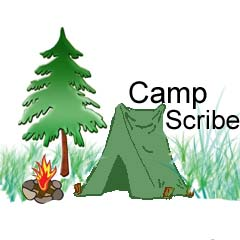
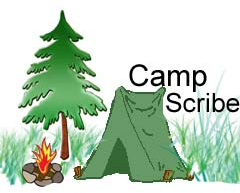
clean up of header style fix for Indian Lore import problem cope with corrupt tracking/clazz roster fix for bug with get current event on reports

diff --git a/campscribe/src/main/webapp/campscribe.css b/campscribe/src/main/webapp/campscribe.css
@@ -58,7 +58,7 @@ h1 {
 .logoTitle {
 	font-size: 24pt;
 	font-weight: bold;
-	padding-top: 30px;
+	padding-top: 85px;
 	padding-left: 20px;
 	float: left;
 }

diff --git a/campscribe/src/main/java/com/campscribe/controller/services/TrackingServiceController.java b/campscribe/src/main/java/com/campscribe/controller/services/TrackingServiceController.java
@@ -66,32 +66,38 @@ public class TrackingServiceController {
 			TrackProgressDTO tpDTO = new TrackProgressDTO();
 			tpDTO.setId(tp.getId());
 			
-			Scout scout = scoutMgr.getScout(tp.getScoutKey().getId());
-			ScoutDTO scoutDTO = new ScoutDTO();
-			scoutDTO.setId(tp.getScoutKey().getId());
-			scoutDTO.setFirstName(scout.getFirstName());
-			scoutDTO.setLastName(scout.getLastName());
-			tpDTO.setScout(scoutDTO);
+			try {
+				Scout scout = scoutMgr.getScout(tp.getScoutKey().getId());
+				ScoutDTO scoutDTO = new ScoutDTO();
+				scoutDTO.setId(tp.getScoutKey().getId());
+				scoutDTO.setFirstName(scout.getFirstName());
+				scoutDTO.setLastName(scout.getLastName());
+				tpDTO.setScout(scoutDTO);
 			
-			List<DateAttendanceDTO> attendanceList = new ArrayList<DateAttendanceDTO>();
-			for (DateAttendance da:tp.getAttendanceList()) {
-				DateAttendanceDTO daDTO = new DateAttendanceDTO();
-				daDTO.setDate(da.getDate());
-				daDTO.setPresent(da.isPresent());
-				attendanceList.add(daDTO);
+				List<DateAttendanceDTO> attendanceList = new ArrayList<DateAttendanceDTO>();
+				for (DateAttendance da:tp.getAttendanceList()) {
+					DateAttendanceDTO daDTO = new DateAttendanceDTO();
+					daDTO.setDate(da.getDate());
+					daDTO.setPresent(da.isPresent());
+					attendanceList.add(daDTO);
+				}
+				tpDTO.setAttendanceList(attendanceList);
+			
+				List<RequirementCompletionDTO> reqList = new ArrayList<RequirementCompletionDTO>();
+				for (RequirementCompletion rc:tp.getRequirementList()) {
+					RequirementCompletionDTO rcDTO = new RequirementCompletionDTO();
+					rcDTO.setCompleted(rc.isCompleted());
+					rcDTO.setReqNumber(rc.getReqNumber());
+					reqList.add(rcDTO);
+				}
+				tpDTO.setRequirementList(reqList);
+			
+				retList.add(tpDTO);
+			} catch (com.googlecode.objectify.NotFoundException nfe) {
+				//should never happen - a sign of corrupt data...
+				//TODO - log something in this case
+				continue;
 			}
-			tpDTO.setAttendanceList(attendanceList);
-			
-			List<RequirementCompletionDTO> reqList = new ArrayList<RequirementCompletionDTO>();
-			for (RequirementCompletion rc:tp.getRequirementList()) {
-				RequirementCompletionDTO rcDTO = new RequirementCompletionDTO();
-				rcDTO.setCompleted(rc.isCompleted());
-				rcDTO.setReqNumber(rc.getReqNumber());
-				reqList.add(rcDTO);
-			}
-			tpDTO.setRequirementList(reqList);
-			
-			retList.add(tpDTO);
 		}
 		
 		Collections.sort(retList, new Comparator<TrackProgressDTO>(){

diff --git a/campscribe/src/main/java/com/campscribe/backend/ProcessDoubleknotServlet.java b/campscribe/src/main/java/com/campscribe/backend/ProcessDoubleknotServlet.java
@@ -151,7 +151,7 @@ public class ProcessDoubleknotServlet extends HttpServlet {
 				lastEventSeen = eventIdMap.get(nextLine[3]);
 			} else if (nextLine.length>=5 && !nextLine[4].startsWith("581 Ibold Rd")) {
 				//handle some weirdness in the data coming from doubleknot
-				String eventDesc = nextLine[3].replace("Swmming","Swimming").replace(" (Pool)", "").replace("Communication", "Communications").replace("0 - ", "0-").replace("0- ", "0-");
+				String eventDesc = nextLine[3].replace("Swmming","Swimming").replace(" (Pool)", "").replace("Communication", "Communications").replace("0 - ", "0-").replace("0- ", "0-").replace("  "," ");
 				String clazzKeyStr = lastEventSeen.toString() + "," + eventDesc;
 				
 				if (!clazzIdMap.containsKey(clazzKeyStr)) {
@@ -196,7 +196,7 @@ public class ProcessDoubleknotServlet extends HttpServlet {
 				String scoutKeyStr = firstName+","+lastName+","+unitType+","+unitNumber;
 
 				//handle some weirdness in the data coming from doubleknot
-				String eventDesc = nextLine[3].replace("Swmming","Swimming").replace(" (Pool)", "").replace("Communication", "Communications").replace("0 - ", "0-").replace("0- ", "0-");
+				String eventDesc = nextLine[3].replace("Swmming","Swimming").replace(" (Pool)", "").replace("Communication", "Communications").replace("0 - ", "0-").replace("0- ", "0-").replace("  "," ");
 				String clazzKeyStr = lastEventSeen.toString() + "," + eventDesc;
 				
 				if (clazzIdMap.containsKey(clazzKeyStr) && scoutIdMap.containsKey(scoutKeyStr)) {

diff --git a/campscribe/src/main/java/com/campscribe/backend/ReportServlet.java b/campscribe/src/main/java/com/campscribe/backend/ReportServlet.java
@@ -77,12 +77,15 @@ public class ReportServlet extends HttpServlet {
 		logger.info("done gathering camp data");
 
 		List<Event> events = getEventManager().listEvents();
-		Event event = EventUtil.findCurrentEvent(events);
+		Event event = null;
 
 		//get the request parms to filter results
 		Long eventIdParm = Long.valueOf(req.getParameter("eventId"));
 		if (eventIdParm == null) {
+			event = EventUtil.findCurrentEvent(events);
 			eventIdParm = EventUtil.findCurrentEventId(events);
+		} else {
+			event = eventMgr.getEvent(eventIdParm);
 		}
 		String programAreaParm = req.getParameter("programArea");
 		String unitParm = req.getParameter("unit");

diff --git a/campscribe/src/main/java/com/campscribe/model/EventUtil.java b/campscribe/src/main/java/com/campscribe/model/EventUtil.java
@@ -6,7 +6,7 @@ import java.util.List;
 public class EventUtil {
 
 	public static Long findCurrentEventId(List<Event> events) {
-		long eventId = (events.size()>0?events.get(0).getId():0);
+		long eventId = (events.size()>0?events.get(events.size()-1).getId():0);
 
 		Date today = new Date();
 		for (Event e:events) {
@@ -32,6 +32,10 @@ public class EventUtil {
 			if (today.after(startDate) && today.before(endDate)) {
 				return e;
 			}
+		}
+		
+		if (events.size() > 0) {
+			return events.get(events.size()-1);
 		}
 		
 		return null;
